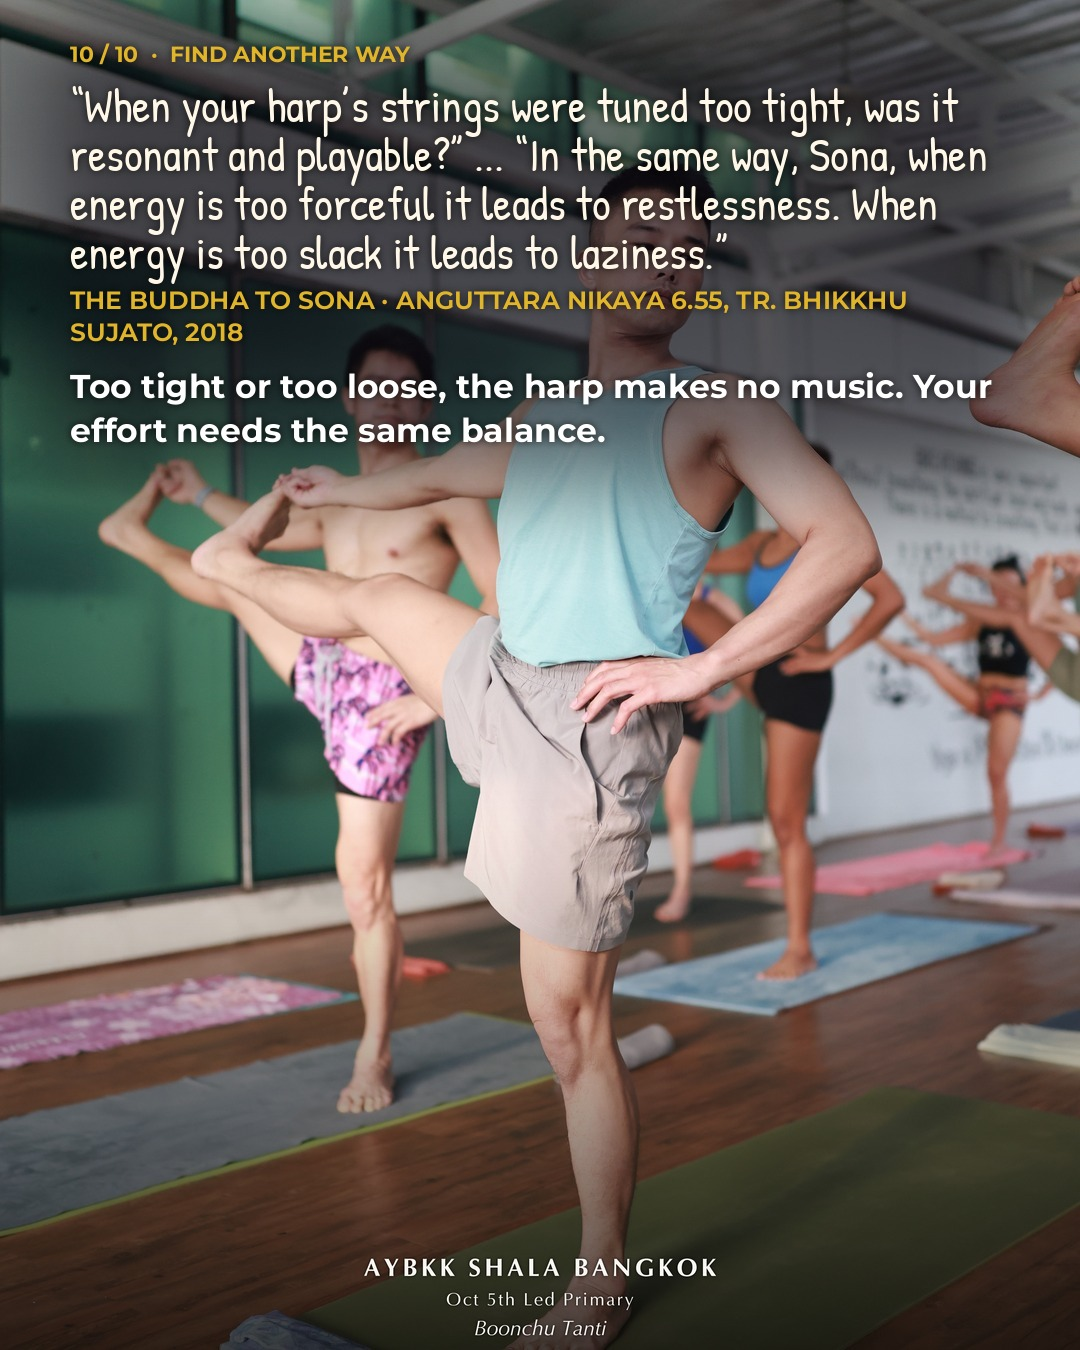
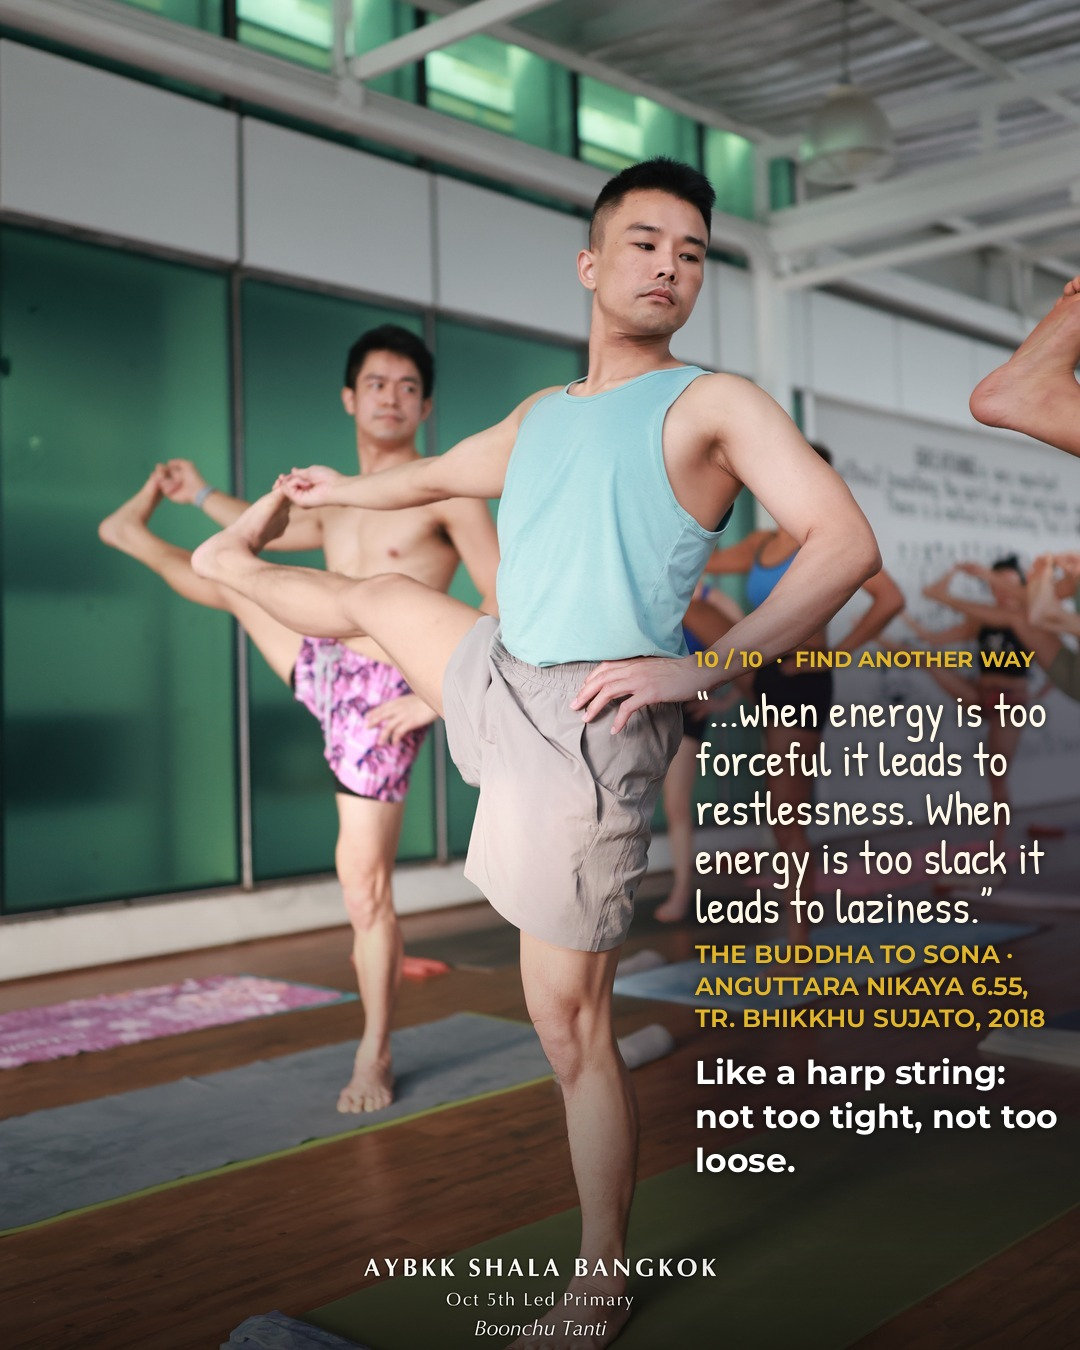
plato chat: 2026-10-05 batch B text moves

diff --git a/bots/media/2026-10-05-ripen-another-way/build_o5.py b/bots/media/2026-10-05-ripen-another-way/build_o5.py
@@ -63,8 +63,8 @@ B=('FIND ANOTHER WAY',[
  "Build the house to suit the one who lives in it...",
  "Fit the way to the person."),
 ('018',"The Buddha to Sona · Anguttara Nikaya 6.55, tr. Bhikkhu Sujato, 2018",
- "When your harp’s strings were tuned too tight, was it resonant and playable?” ... “In the same way, Sona, when energy is too forceful it leads to restlessness. When energy is too slack it leads to laziness.",
- "Too tight or too loose, the harp makes no music. Your effort needs the same balance."),
+ "...when energy is too forceful it leads to restlessness. When energy is too slack it leads to laziness.",
+ "Like a harp string: not too tight, not too loose."),
 ])
 which=sys.argv[1]; LABEL,S={'A':A,'B':B}[which]
 F=json.loads(sys.argv[2]) if len(sys.argv)>2 else {}
